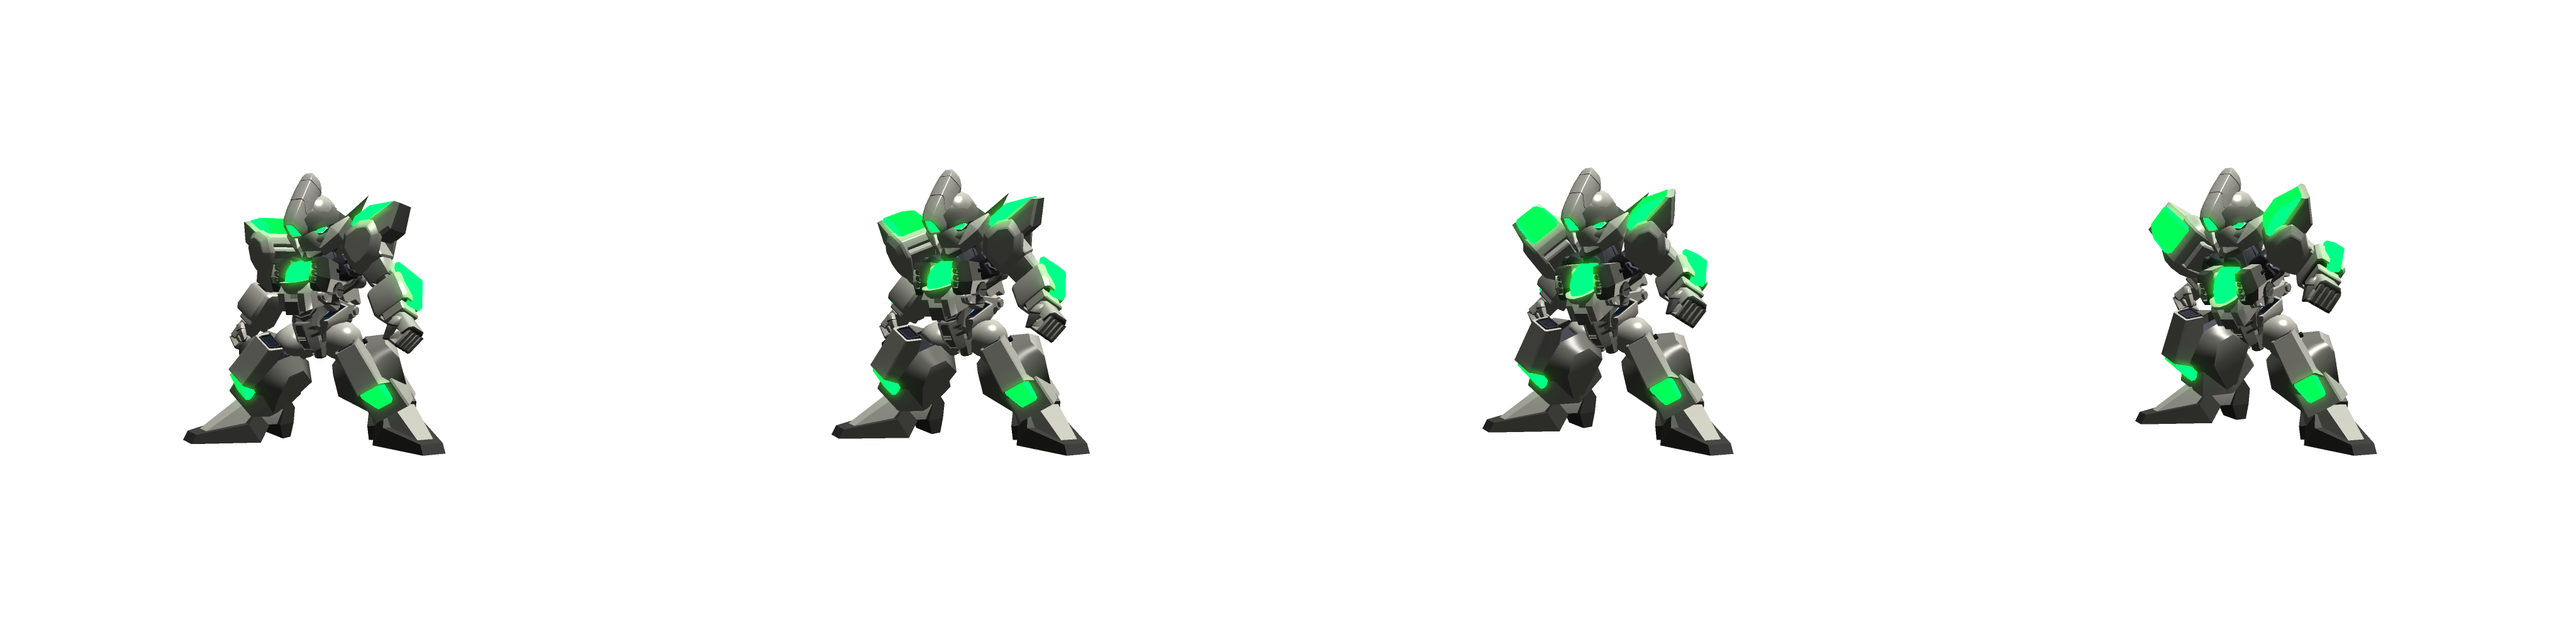
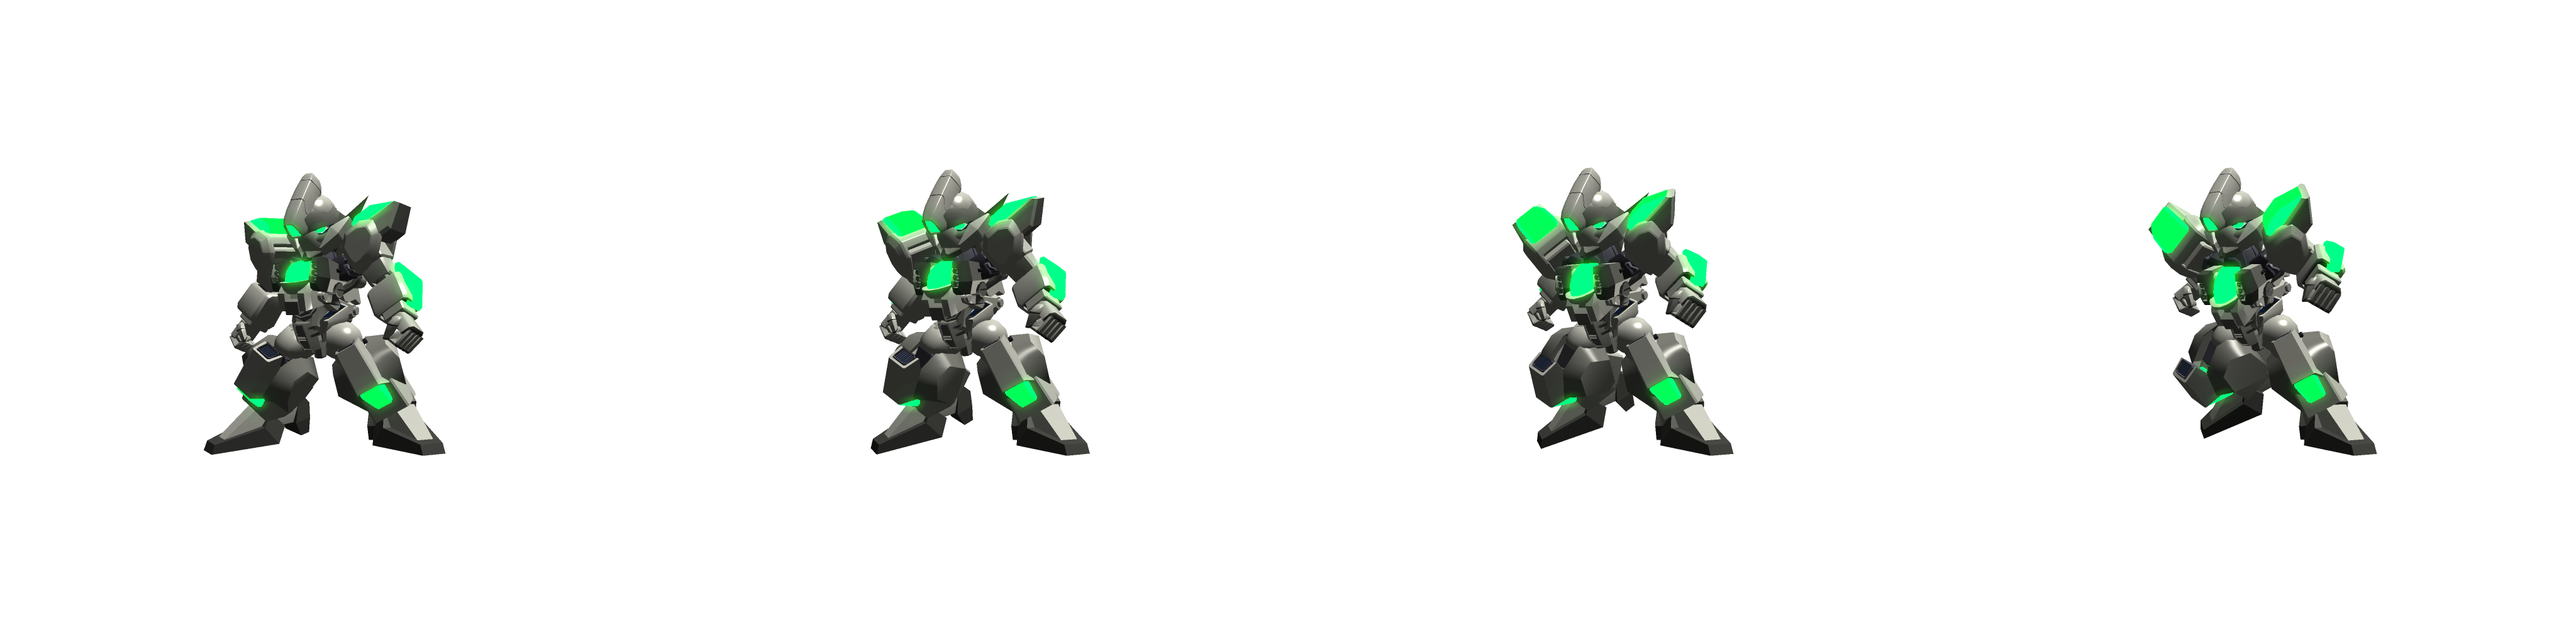
シンブレイバーの回避モーションを調整した

diff --git a/src/js/game/td-scenes/battle/animation/state-history/battle/attack/neo-landozer.js b/src/js/game/td-scenes/battle/animation/state-history/battle/attack/neo-landozer.js
@@ -95,21 +95,20 @@ type AttackResult = NormalHit | CriticalHit;
  * @return アニメーション
  */
 function attack(param: NeoLandozerBattleAnimtionParam<AttackResult>): Animate {
-  return all(
-    param.attackerSprite.charge()
-      .chain(delay(600))
-      .chain(param.attackerSprite.armHammer())
-      .chain(delay(1300))
-      .chain(param.attackerSprite.hmToStand()),
+  return param.attackerSprite.charge()
+    .chain(delay(600))
+    .chain(all(
+      param.attackerSprite.armHammer(),
 
-    delay(1000)
-      .chain(
+      delay(200).chain(all(
         param.defenderTD.damageIndicator.popUp(param.result.damage),
         param.defenderSprite.knockBack(),
         param.defenderTD.hitMark.shockWave.popUp(),
         param.defenderHUD.gauge.hp(param.defenderState.armdozer.hp)
-      )
-  );
+      ))
+    ))
+    .chain(delay(1000))
+    .chain(param.attackerSprite.hmToStand());
 }
 
 /**
@@ -119,21 +118,20 @@ function attack(param: NeoLandozerBattleAnimtionParam<AttackResult>): Animate {
  * @return アニメーション
  */
 function guard(param: NeoLandozerBattleAnimtionParam<Guard>): Animate {
-  return all(
-    param.attackerSprite.charge()
-      .chain(delay(600))
-      .chain(param.attackerSprite.armHammer())
-      .chain(delay(1300))
-      .chain(param.attackerSprite.hmToStand()),
+  return param.attackerSprite.charge()
+    .chain(delay(600))
+    .chain(all(
+      param.attackerSprite.armHammer(),
 
-    delay(1000)
-      .chain(
+      delay(200).chain(all(
         param.defenderTD.damageIndicator.popUp(param.result.damage),
         param.defenderSprite.guard(),
         param.defenderTD.hitMark.shockWave.popUp(),
         param.defenderHUD.gauge.hp(param.defenderState.armdozer.hp)
-      )
-  );
+      ))
+    ))
+    .chain(delay(1000))
+    .chain(param.attackerSprite.hmToStand());
 }
 
 /**
@@ -143,16 +141,16 @@ function guard(param: NeoLandozerBattleAnimtionParam<Guard>): Animate {
  * @return アニメーション
  */
 function miss(param: NeoLandozerBattleAnimtionParam<Miss>): Animate {
-  return all(
-    param.attackerSprite.charge()
-      .chain(delay(600))
-      .chain(param.attackerSprite.armHammer())
-      .chain(delay(500))
-      .chain(param.attackerSprite.hmToStand()),
+  return param.attackerSprite.charge()
+    .chain(delay(600))
+    .chain(all(
+      param.attackerSprite.armHammer(),
 
-    delay(1000)
-      .chain(param.defenderSprite.avoid())
-  );
+      delay(200)
+        .chain(param.defenderSprite.avoid())
+    ))
+    .chain(delay(1000))
+    .chain(param.attackerSprite.hmToStand());
 }
 
 /**

diff --git a/src/js/game-object/armdozer/shin-braver/animation/avoid-to-stand.js b/src/js/game-object/armdozer/shin-braver/animation/avoid-to-stand.js
@@ -6,18 +6,24 @@ import {tween} from "../../../../animation/tween";
 import type {ShinBraverModel} from "../model/shin-braver-model";
 import {ShinBraverSounds} from "../sounds/shin-braver-sounds";
 import {all} from "../../../../animation/all";
+import {delay} from "../../../../animation/delay";
 
 /** 避け -> 立ち */
 export function avoidToStand(model: ShinBraverModel, sounds: ShinBraverSounds): Animate {
   return process(() => {
-    model.animation.type = 'BACK_STEP';
-    model.animation.frame = 1;
+    model.animation.type = 'FRONT_STEP';
+    model.animation.frame = 0;
     sounds.motor.play();
   })
     .chain(all(
-      tween(model.animation, t => t.to({frame: 0}, 400)),
-      tween(model.position, t => t.to({x: '-100'}, 400))
+      tween(model.animation, t => t.to({frame: 1}, 300)),
+      tween(model.position, t => t.to({x: '-100'}, 300))
     ))
+    .chain(delay(300))
+    .chain(process(() => {
+      sounds.motor.play();
+    }))
+    .chain(tween(model.animation, t => t.to({frame: 0}, 300)))
     .chain(process(() => {
       model.animation.type = 'STAND';
       model.animation.frame = 0;

diff --git a/src/js/game-object/armdozer/shin-braver/animation/avoid.js b/src/js/game-object/armdozer/shin-braver/animation/avoid.js
@@ -6,6 +6,7 @@ import {tween} from "../../../../animation/tween";
 import type {ShinBraverModel} from "../model/shin-braver-model";
 import {ShinBraverSounds} from "../sounds/shin-braver-sounds";
 import {all} from "../../../../animation/all";
+import {delay} from "../../../../animation/delay";
 
 /** 避ける */
 export function avoid(model: ShinBraverModel, sounds: ShinBraverSounds): Animate {
@@ -15,7 +16,16 @@ export function avoid(model: ShinBraverModel, sounds: ShinBraverSounds): Animate
     sounds.motor.play();
   })
     .chain(all(
-      tween(model.animation, t => t.to({frame: 1}, 300)),
+      tween(model.animation, t => t.to({frame: 1}, 200)),
       tween(model.position, t => t.to({x: '+100'}, 300))
-    ));
+    ))
+    .chain(delay(300))
+    .chain(process(() => {
+      sounds.motor.play();
+    }))
+    .chain(tween(model.animation, t => t.to({frame: 0}, 300)))
+    .chain(process(() => {
+      model.animation.type = 'STAND';
+      model.animation.frame = 0;
+    }));
 }
